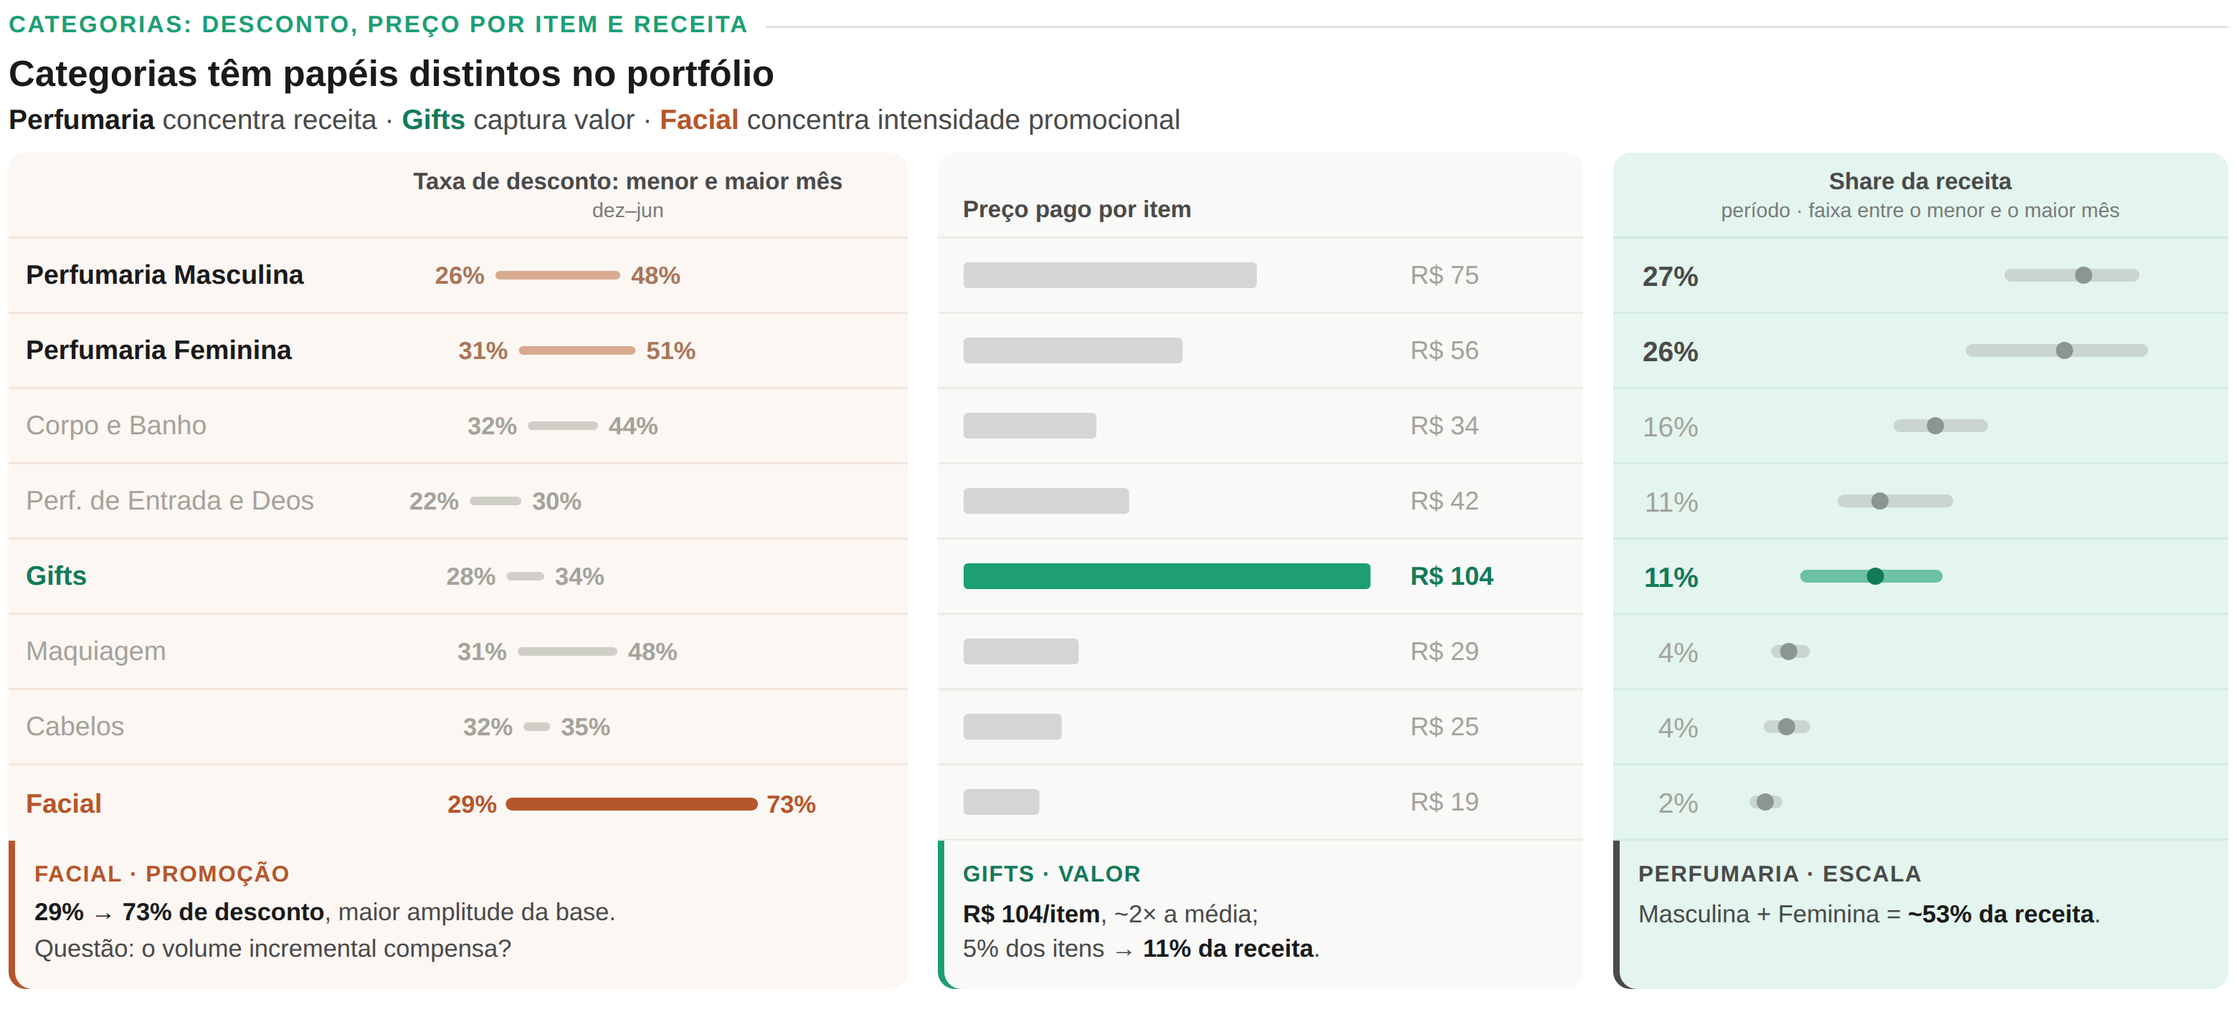
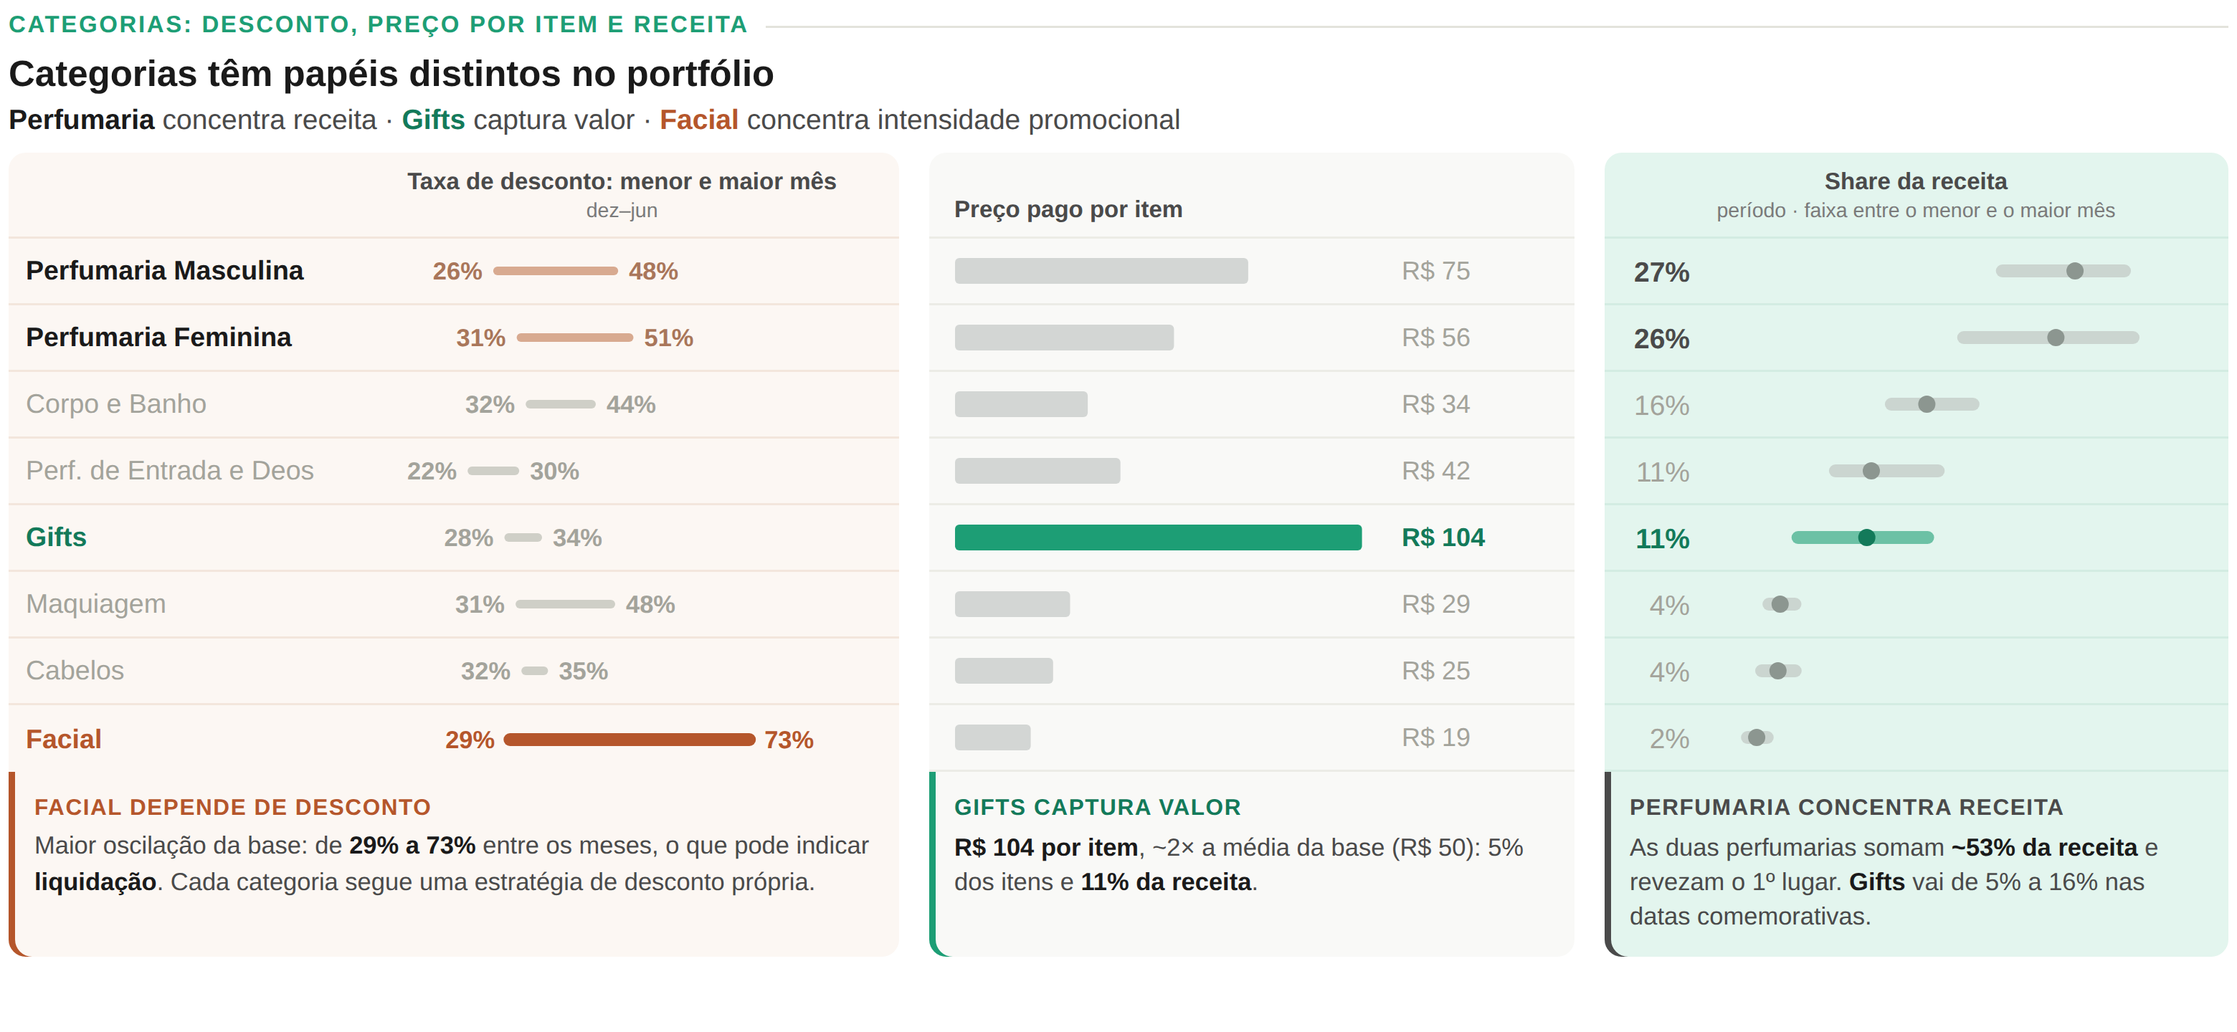
Widget de categorias: volta os textos anteriores dos insights
Claude-Session: https://claude.ai/code/session_01NUJZKTcM8cs9QBTcUeuacF

diff --git a/apresentacao/widgets/04_categorias.html b/apresentacao/widgets/04_categorias.html
@@ -24,7 +24,7 @@
   .cats th { font-size: 11px; font-weight: 700; color: var(--tinta-2); text-align: center; padding: 8px 8px 6px; vertical-align: bottom; white-space: nowrap; }
   .cats th.esq { text-align: left; }
   .cats th span { display: block; font-size: 9.5px; font-weight: 400; color: var(--tinta-3); margin-top: 2px; }
-  .cats td { padding: 6px 8px; vertical-align: middle; }
+  .cats td { padding: 4px 8px; vertical-align: middle; }
   .cats td svg { display: block; }
   svg text { font-family: Arial, sans-serif; }
   .amp { font-size: 11.5px; font-weight: 700; }
@@ -53,7 +53,7 @@
   .cats th.lado { border-radius: 8px 8px 0 0; }
   .cats .sep { width: 14px; padding: 0; background: none !important; border-top: none !important; }
 
-  tr.notas td { border-top: none; vertical-align: top; padding: 9px 12px 10px; }
+  tr.notas td { border-top: none; vertical-align: top; padding: 10px 12px; }
   .nota { font-size: 11.5px; line-height: 1.4; color: var(--tinta-2); }
   .nota b { color: var(--tinta); }
   .nota .tit { display: block; font-size: 10.5px; font-weight: 700; text-transform: uppercase; letter-spacing: .05em; margin-bottom: 3px; }
@@ -67,11 +67,11 @@
   <div class="rotulo">Categorias: desconto, preço por item e receita</div>
   <h3>Categorias têm papéis distintos no portfólio</h3>
   <div class="sub"><b>Perfumaria</b> concentra receita · <b class="g">Gifts</b> captura valor · <b class="f">Facial</b> concentra intensidade promocional</div>
-  <table class="cats"><tr><th></th><th>Taxa de desconto: menor e maior mês<span>dez–jun</span></th><th class="sep"></th><th class="preco esq">Preço pago por item</th><th class="sep"></th><th class="lado" colspan="2">Share da receita<span>período · faixa entre o menor e o maior mês</span></th></tr><tr class="perf"><td class="nome">Perfumaria Masculina</td><td><svg width="230" height="22"><line x1="62.3" x2="116.4" y1="11" y2="11" stroke="#d8aa90" stroke-width="4" stroke-linecap="round"/><text x="55.3" y="15" text-anchor="end" class="amp" fill="#a9765a">26%</text><text x="123.4" y="15" class="amp" fill="#a9765a">48%</text></svg></td><td class="sep"></td><td class="preco"><div class="barra"><svg width="200" height="18"><rect x="0" y="3" width="136.3" height="12" rx="2" fill="#d3d6d4"/></svg><b>R$&nbsp;75</b></div></td><td class="sep"></td><td class="lado share">27%</td><td class="lado"><svg width="210" height="22"><line x1="128.9" x2="185.7" y1="11" y2="11" stroke="#cbd5d0" stroke-width="6" stroke-linecap="round" stroke-opacity="1"/><circle cx="162.7" cy="11" r="4" fill="#8c9690"/></svg></td></tr><tr class="perf"><td class="nome">Perfumaria Feminina</td><td><svg width="230" height="22"><line x1="73.2" x2="123.5" y1="11" y2="11" stroke="#d8aa90" stroke-width="4" stroke-linecap="round"/><text x="66.2" y="15" text-anchor="end" class="amp" fill="#a9765a">31%</text><text x="130.5" y="15" class="amp" fill="#a9765a">51%</text></svg></td><td class="sep"></td><td class="preco"><div class="barra"><svg width="200" height="18"><rect x="0" y="3" width="101.8" height="12" rx="2" fill="#d3d6d4"/></svg><b>R$&nbsp;56</b></div></td><td class="sep"></td><td class="lado share">26%</td><td class="lado"><svg width="210" height="22"><line x1="110.9" x2="189.7" y1="11" y2="11" stroke="#cbd5d0" stroke-width="6" stroke-linecap="round" stroke-opacity="1"/><circle cx="153.8" cy="11" r="4" fill="#8c9690"/></svg></td></tr><tr class="outra"><td class="nome">Corpo e Banho</td><td><svg width="230" height="22"><line x1="77.4" x2="106.0" y1="11" y2="11" stroke="#cfcfc7" stroke-width="4" stroke-linecap="round"/><text x="70.4" y="15" text-anchor="end" class="amp" fill="#a3a39b">32%</text><text x="113.0" y="15" class="amp" fill="#a3a39b">44%</text></svg></td><td class="sep"></td><td class="preco"><div class="barra"><svg width="200" height="18"><rect x="0" y="3" width="61.7" height="12" rx="2" fill="#d3d6d4"/></svg><b>R$&nbsp;34</b></div></td><td class="sep"></td><td class="lado share">16%</td><td class="lado"><svg width="210" height="22"><line x1="77.3" x2="115.3" y1="11" y2="11" stroke="#cbd5d0" stroke-width="6" stroke-linecap="round" stroke-opacity="1"/><circle cx="93.8" cy="11" r="4" fill="#8c9690"/></svg></td></tr><tr class="outra"><td class="nome">Perf. de Entrada e Deos</td><td><svg width="230" height="22"><line x1="50.4" x2="70.4" y1="11" y2="11" stroke="#cfcfc7" stroke-width="4" stroke-linecap="round"/><text x="43.4" y="15" text-anchor="end" class="amp" fill="#a3a39b">22%</text><text x="77.4" y="15" class="amp" fill="#a3a39b">30%</text></svg></td><td class="sep"></td><td class="preco"><div class="barra"><svg width="200" height="18"><rect x="0" y="3" width="76.9" height="12" rx="2" fill="#d3d6d4"/></svg><b>R$&nbsp;42</b></div></td><td class="sep"></td><td class="lado share">11%</td><td class="lado"><svg width="210" height="22"><line x1="51.3" x2="99.1" y1="11" y2="11" stroke="#cbd5d0" stroke-width="6" stroke-linecap="round" stroke-opacity="1"/><circle cx="68.0" cy="11" r="4" fill="#8c9690"/></svg></td></tr><tr class="gift"><td class="nome">Gifts</td><td><svg width="230" height="22"><line x1="67.5" x2="81.0" y1="11" y2="11" stroke="#cfcfc7" stroke-width="4" stroke-linecap="round"/><text x="60.5" y="15" text-anchor="end" class="amp" fill="#a3a39b">28%</text><text x="88.0" y="15" class="amp" fill="#a3a39b">34%</text></svg></td><td class="sep"></td><td class="preco"><div class="barra"><svg width="200" height="18"><rect x="0" y="3" width="189.2" height="12" rx="2" fill="#1d9e75"/></svg><b>R$&nbsp;104</b></div></td><td class="sep"></td><td class="lado share">11%</td><td class="lado"><svg width="210" height="22"><line x1="33.9" x2="94.2" y1="11" y2="11" stroke="#1d9e75" stroke-width="6" stroke-linecap="round" stroke-opacity="0.6"/><circle cx="65.9" cy="11" r="4" fill="#137a5a"/></svg></td></tr><tr class="outra"><td class="nome">Maquiagem</td><td><svg width="230" height="22"><line x1="72.7" x2="115.0" y1="11" y2="11" stroke="#cfcfc7" stroke-width="4" stroke-linecap="round"/><text x="65.7" y="15" text-anchor="end" class="amp" fill="#a3a39b">31%</text><text x="122.0" y="15" class="amp" fill="#a3a39b">48%</text></svg></td><td class="sep"></td><td class="preco"><div class="barra"><svg width="200" height="18"><rect x="0" y="3" width="53.5" height="12" rx="2" fill="#d3d6d4"/></svg><b>R$&nbsp;29</b></div></td><td class="sep"></td><td class="lado share">4%</td><td class="lado"><svg width="210" height="22"><line x1="20.4" x2="32.5" y1="11" y2="11" stroke="#cbd5d0" stroke-width="6" stroke-linecap="round" stroke-opacity="1"/><circle cx="25.6" cy="11" r="4" fill="#8c9690"/></svg></td></tr><tr class="outra"><td class="nome">Cabelos</td><td><svg width="230" height="22"><line x1="75.4" x2="83.8" y1="11" y2="11" stroke="#cfcfc7" stroke-width="4" stroke-linecap="round"/><text x="68.4" y="15" text-anchor="end" class="amp" fill="#a3a39b">32%</text><text x="90.8" y="15" class="amp" fill="#a3a39b">35%</text></svg></td><td class="sep"></td><td class="preco"><div class="barra"><svg width="200" height="18"><rect x="0" y="3" width="45.6" height="12" rx="2" fill="#d3d6d4"/></svg><b>R$&nbsp;25</b></div></td><td class="sep"></td><td class="lado share">4%</td><td class="lado"><svg width="210" height="22"><line x1="17.0" x2="32.6" y1="11" y2="11" stroke="#cbd5d0" stroke-width="6" stroke-linecap="round" stroke-opacity="1"/><circle cx="24.6" cy="11" r="4" fill="#8c9690"/></svg></td></tr><tr class="facial"><td class="nome">Facial</td><td><svg width="230" height="22"><line x1="68.1" x2="179.4" y1="11" y2="11" stroke="#b5562b" stroke-width="6" stroke-linecap="round"/><text x="61.1" y="15" text-anchor="end" class="amp" fill="#b5562b">29%</text><text x="186.4" y="15" class="amp" fill="#b5562b">73%</text></svg></td><td class="sep"></td><td class="preco"><div class="barra"><svg width="200" height="18"><rect x="0" y="3" width="35.2" height="12" rx="2" fill="#d3d6d4"/></svg><b>R$&nbsp;19</b></div></td><td class="sep"></td><td class="lado share">2%</td><td class="lado"><svg width="210" height="22"><line x1="10.4" x2="19.6" y1="11" y2="11" stroke="#cbd5d0" stroke-width="6" stroke-linecap="round" stroke-opacity="1"/><circle cx="14.7" cy="11" r="4" fill="#8c9690"/></svg></td></tr><tr class="notas"><td colspan="2" class="nota d"><span class="tit">Facial · promoção</span><b>29% → 73% de desconto</b>, maior amplitude da base.<br>Questão: o volume incremental compensa?</td><td class="sep"></td><td class="preco nota p"><span class="tit">Gifts · valor</span><b>R$&nbsp;104/item</b>, ~2× a média;<br>5% dos itens → <b>11% da receita</b>.</td><td class="sep"></td><td colspan="2" class="lado nota s"><span class="tit">Perfumaria · escala</span>Masculina + Feminina = <b>~53% da receita</b>.</td></tr></table>
+  <table class="cats"><tr><th></th><th>Taxa de desconto: menor e maior mês<span>dez–jun</span></th><th class="sep"></th><th class="preco esq">Preço pago por item</th><th class="sep"></th><th class="lado" colspan="2">Share da receita<span>período · faixa entre o menor e o maior mês</span></th></tr><tr class="perf"><td class="nome">Perfumaria Masculina</td><td><svg width="230" height="22"><line x1="62.3" x2="116.4" y1="11" y2="11" stroke="#d8aa90" stroke-width="4" stroke-linecap="round"/><text x="55.3" y="15" text-anchor="end" class="amp" fill="#a9765a">26%</text><text x="123.4" y="15" class="amp" fill="#a9765a">48%</text></svg></td><td class="sep"></td><td class="preco"><div class="barra"><svg width="200" height="18"><rect x="0" y="3" width="136.3" height="12" rx="2" fill="#d3d6d4"/></svg><b>R$&nbsp;75</b></div></td><td class="sep"></td><td class="lado share">27%</td><td class="lado"><svg width="210" height="22"><line x1="128.9" x2="185.7" y1="11" y2="11" stroke="#cbd5d0" stroke-width="6" stroke-linecap="round" stroke-opacity="1"/><circle cx="162.7" cy="11" r="4" fill="#8c9690"/></svg></td></tr><tr class="perf"><td class="nome">Perfumaria Feminina</td><td><svg width="230" height="22"><line x1="73.2" x2="123.5" y1="11" y2="11" stroke="#d8aa90" stroke-width="4" stroke-linecap="round"/><text x="66.2" y="15" text-anchor="end" class="amp" fill="#a9765a">31%</text><text x="130.5" y="15" class="amp" fill="#a9765a">51%</text></svg></td><td class="sep"></td><td class="preco"><div class="barra"><svg width="200" height="18"><rect x="0" y="3" width="101.8" height="12" rx="2" fill="#d3d6d4"/></svg><b>R$&nbsp;56</b></div></td><td class="sep"></td><td class="lado share">26%</td><td class="lado"><svg width="210" height="22"><line x1="110.9" x2="189.7" y1="11" y2="11" stroke="#cbd5d0" stroke-width="6" stroke-linecap="round" stroke-opacity="1"/><circle cx="153.8" cy="11" r="4" fill="#8c9690"/></svg></td></tr><tr class="outra"><td class="nome">Corpo e Banho</td><td><svg width="230" height="22"><line x1="77.4" x2="106.0" y1="11" y2="11" stroke="#cfcfc7" stroke-width="4" stroke-linecap="round"/><text x="70.4" y="15" text-anchor="end" class="amp" fill="#a3a39b">32%</text><text x="113.0" y="15" class="amp" fill="#a3a39b">44%</text></svg></td><td class="sep"></td><td class="preco"><div class="barra"><svg width="200" height="18"><rect x="0" y="3" width="61.7" height="12" rx="2" fill="#d3d6d4"/></svg><b>R$&nbsp;34</b></div></td><td class="sep"></td><td class="lado share">16%</td><td class="lado"><svg width="210" height="22"><line x1="77.3" x2="115.3" y1="11" y2="11" stroke="#cbd5d0" stroke-width="6" stroke-linecap="round" stroke-opacity="1"/><circle cx="93.8" cy="11" r="4" fill="#8c9690"/></svg></td></tr><tr class="outra"><td class="nome">Perf. de Entrada e Deos</td><td><svg width="230" height="22"><line x1="50.4" x2="70.4" y1="11" y2="11" stroke="#cfcfc7" stroke-width="4" stroke-linecap="round"/><text x="43.4" y="15" text-anchor="end" class="amp" fill="#a3a39b">22%</text><text x="77.4" y="15" class="amp" fill="#a3a39b">30%</text></svg></td><td class="sep"></td><td class="preco"><div class="barra"><svg width="200" height="18"><rect x="0" y="3" width="76.9" height="12" rx="2" fill="#d3d6d4"/></svg><b>R$&nbsp;42</b></div></td><td class="sep"></td><td class="lado share">11%</td><td class="lado"><svg width="210" height="22"><line x1="51.3" x2="99.1" y1="11" y2="11" stroke="#cbd5d0" stroke-width="6" stroke-linecap="round" stroke-opacity="1"/><circle cx="68.0" cy="11" r="4" fill="#8c9690"/></svg></td></tr><tr class="gift"><td class="nome">Gifts</td><td><svg width="230" height="22"><line x1="67.5" x2="81.0" y1="11" y2="11" stroke="#cfcfc7" stroke-width="4" stroke-linecap="round"/><text x="60.5" y="15" text-anchor="end" class="amp" fill="#a3a39b">28%</text><text x="88.0" y="15" class="amp" fill="#a3a39b">34%</text></svg></td><td class="sep"></td><td class="preco"><div class="barra"><svg width="200" height="18"><rect x="0" y="3" width="189.2" height="12" rx="2" fill="#1d9e75"/></svg><b>R$&nbsp;104</b></div></td><td class="sep"></td><td class="lado share">11%</td><td class="lado"><svg width="210" height="22"><line x1="33.9" x2="94.2" y1="11" y2="11" stroke="#1d9e75" stroke-width="6" stroke-linecap="round" stroke-opacity="0.6"/><circle cx="65.9" cy="11" r="4" fill="#137a5a"/></svg></td></tr><tr class="outra"><td class="nome">Maquiagem</td><td><svg width="230" height="22"><line x1="72.7" x2="115.0" y1="11" y2="11" stroke="#cfcfc7" stroke-width="4" stroke-linecap="round"/><text x="65.7" y="15" text-anchor="end" class="amp" fill="#a3a39b">31%</text><text x="122.0" y="15" class="amp" fill="#a3a39b">48%</text></svg></td><td class="sep"></td><td class="preco"><div class="barra"><svg width="200" height="18"><rect x="0" y="3" width="53.5" height="12" rx="2" fill="#d3d6d4"/></svg><b>R$&nbsp;29</b></div></td><td class="sep"></td><td class="lado share">4%</td><td class="lado"><svg width="210" height="22"><line x1="20.4" x2="32.5" y1="11" y2="11" stroke="#cbd5d0" stroke-width="6" stroke-linecap="round" stroke-opacity="1"/><circle cx="25.6" cy="11" r="4" fill="#8c9690"/></svg></td></tr><tr class="outra"><td class="nome">Cabelos</td><td><svg width="230" height="22"><line x1="75.4" x2="83.8" y1="11" y2="11" stroke="#cfcfc7" stroke-width="4" stroke-linecap="round"/><text x="68.4" y="15" text-anchor="end" class="amp" fill="#a3a39b">32%</text><text x="90.8" y="15" class="amp" fill="#a3a39b">35%</text></svg></td><td class="sep"></td><td class="preco"><div class="barra"><svg width="200" height="18"><rect x="0" y="3" width="45.6" height="12" rx="2" fill="#d3d6d4"/></svg><b>R$&nbsp;25</b></div></td><td class="sep"></td><td class="lado share">4%</td><td class="lado"><svg width="210" height="22"><line x1="17.0" x2="32.6" y1="11" y2="11" stroke="#cbd5d0" stroke-width="6" stroke-linecap="round" stroke-opacity="1"/><circle cx="24.6" cy="11" r="4" fill="#8c9690"/></svg></td></tr><tr class="facial"><td class="nome">Facial</td><td><svg width="230" height="22"><line x1="68.1" x2="179.4" y1="11" y2="11" stroke="#b5562b" stroke-width="6" stroke-linecap="round"/><text x="61.1" y="15" text-anchor="end" class="amp" fill="#b5562b">29%</text><text x="186.4" y="15" class="amp" fill="#b5562b">73%</text></svg></td><td class="sep"></td><td class="preco"><div class="barra"><svg width="200" height="18"><rect x="0" y="3" width="35.2" height="12" rx="2" fill="#d3d6d4"/></svg><b>R$&nbsp;19</b></div></td><td class="sep"></td><td class="lado share">2%</td><td class="lado"><svg width="210" height="22"><line x1="10.4" x2="19.6" y1="11" y2="11" stroke="#cbd5d0" stroke-width="6" stroke-linecap="round" stroke-opacity="1"/><circle cx="14.7" cy="11" r="4" fill="#8c9690"/></svg></td></tr><tr class="notas"><td colspan="2" class="nota d"><span class="tit">Facial depende de desconto</span>Maior oscilação da base: de <b>29% a 73%</b> entre os meses, o que pode indicar <b>liquidação</b>. Cada categoria segue uma estratégia de desconto própria.</td><td class="sep"></td><td class="preco nota p"><span class="tit">Gifts captura valor</span><b>R$&nbsp;104 por item</b>, ~2× a média da base (R$&nbsp;50): 5% dos itens e <b>11% da receita</b>.</td><td class="sep"></td><td colspan="2" class="lado nota s"><span class="tit">Perfumaria concentra receita</span>As duas perfumarias somam <b>~53% da receita</b> e revezam o 1º lugar. <b>Gifts</b> vai de 5% a 16% nas datas comemorativas.</td></tr></table>
   <template>
-<!--NOTA_DESCONTO--><span class="tit">Facial · promoção</span><b>29% → 73% de desconto</b>, maior amplitude da base.<br>Questão: o volume incremental compensa?<!--/NOTA_DESCONTO-->
-<!--NOTA_PRECO--><span class="tit">Gifts · valor</span><b>R$&nbsp;104/item</b>, ~2× a média;<br>5% dos itens → <b>11% da receita</b>.<!--/NOTA_PRECO-->
-<!--NOTA_SHARE--><span class="tit">Perfumaria · escala</span>Masculina + Feminina = <b>~53% da receita</b>.<!--/NOTA_SHARE-->
+<!--NOTA_DESCONTO--><span class="tit">Facial depende de desconto</span>Maior oscilação da base: de <b>29% a 73%</b> entre os meses, o que pode indicar <b>liquidação</b>. Cada categoria segue uma estratégia de desconto própria.<!--/NOTA_DESCONTO-->
+<!--NOTA_PRECO--><span class="tit">Gifts captura valor</span><b>R$&nbsp;104 por item</b>, ~2× a média da base (R$&nbsp;50): 5% dos itens e <b>11% da receita</b>.<!--/NOTA_PRECO-->
+<!--NOTA_SHARE--><span class="tit">Perfumaria concentra receita</span>As duas perfumarias somam <b>~53% da receita</b> e revezam o 1º lugar. <b>Gifts</b> vai de 5% a 16% nas datas comemorativas.<!--/NOTA_SHARE-->
   </template>
 </div>
 </body>

diff --git a/apresentacao/geradores/04_categorias_modelo.html b/apresentacao/geradores/04_categorias_modelo.html
@@ -24,7 +24,7 @@
   .cats th { font-size: 11px; font-weight: 700; color: var(--tinta-2); text-align: center; padding: 8px 8px 6px; vertical-align: bottom; white-space: nowrap; }
   .cats th.esq { text-align: left; }
   .cats th span { display: block; font-size: 9.5px; font-weight: 400; color: var(--tinta-3); margin-top: 2px; }
-  .cats td { padding: 6px 8px; vertical-align: middle; }
+  .cats td { padding: 4px 8px; vertical-align: middle; }
   .cats td svg { display: block; }
   svg text { font-family: Arial, sans-serif; }
   .amp { font-size: 11.5px; font-weight: 700; }
@@ -53,7 +53,7 @@
   .cats th.lado { border-radius: 8px 8px 0 0; }
   .cats .sep { width: 14px; padding: 0; background: none !important; border-top: none !important; }
 
-  tr.notas td { border-top: none; vertical-align: top; padding: 9px 12px 10px; }
+  tr.notas td { border-top: none; vertical-align: top; padding: 10px 12px; }
   .nota { font-size: 11.5px; line-height: 1.4; color: var(--tinta-2); }
   .nota b { color: var(--tinta); }
   .nota .tit { display: block; font-size: 10.5px; font-weight: 700; text-transform: uppercase; letter-spacing: .05em; margin-bottom: 3px; }
@@ -69,9 +69,9 @@
   <div class="sub"><b>Perfumaria</b> concentra receita · <b class="g">Gifts</b> captura valor · <b class="f">Facial</b> concentra intensidade promocional</div>
   {{TABELA}}
   <template>
-<!--NOTA_DESCONTO--><span class="tit">Facial · promoção</span><b>29% → 73% de desconto</b>, maior amplitude da base.<br>Questão: o volume incremental compensa?<!--/NOTA_DESCONTO-->
-<!--NOTA_PRECO--><span class="tit">Gifts · valor</span><b>{{GIFT_PAGO}}/item</b>, ~2× a média;<br>{{GIFT_ITENS}} dos itens → <b>{{GIFT_REC}} da receita</b>.<!--/NOTA_PRECO-->
-<!--NOTA_SHARE--><span class="tit">Perfumaria · escala</span>Masculina + Feminina = <b>~{{PERF_SH}} da receita</b>.<!--/NOTA_SHARE-->
+<!--NOTA_DESCONTO--><span class="tit">Facial depende de desconto</span>Maior oscilação da base: de <b>29% a 73%</b> entre os meses, o que pode indicar <b>liquidação</b>. Cada categoria segue uma estratégia de desconto própria.<!--/NOTA_DESCONTO-->
+<!--NOTA_PRECO--><span class="tit">Gifts captura valor</span><b>{{GIFT_PAGO}} por item</b>, ~2× a média da base ({{MEDIA_PAGO}}): {{GIFT_ITENS}} dos itens e <b>{{GIFT_REC}} da receita</b>.<!--/NOTA_PRECO-->
+<!--NOTA_SHARE--><span class="tit">Perfumaria concentra receita</span>As duas perfumarias somam <b>~{{PERF_SH}} da receita</b> e revezam o 1º lugar. <b>Gifts</b> vai de {{GIFT_MIN}} a {{GIFT_MAX}} nas datas comemorativas.<!--/NOTA_SHARE-->
   </template>
 </div>
 </body>
